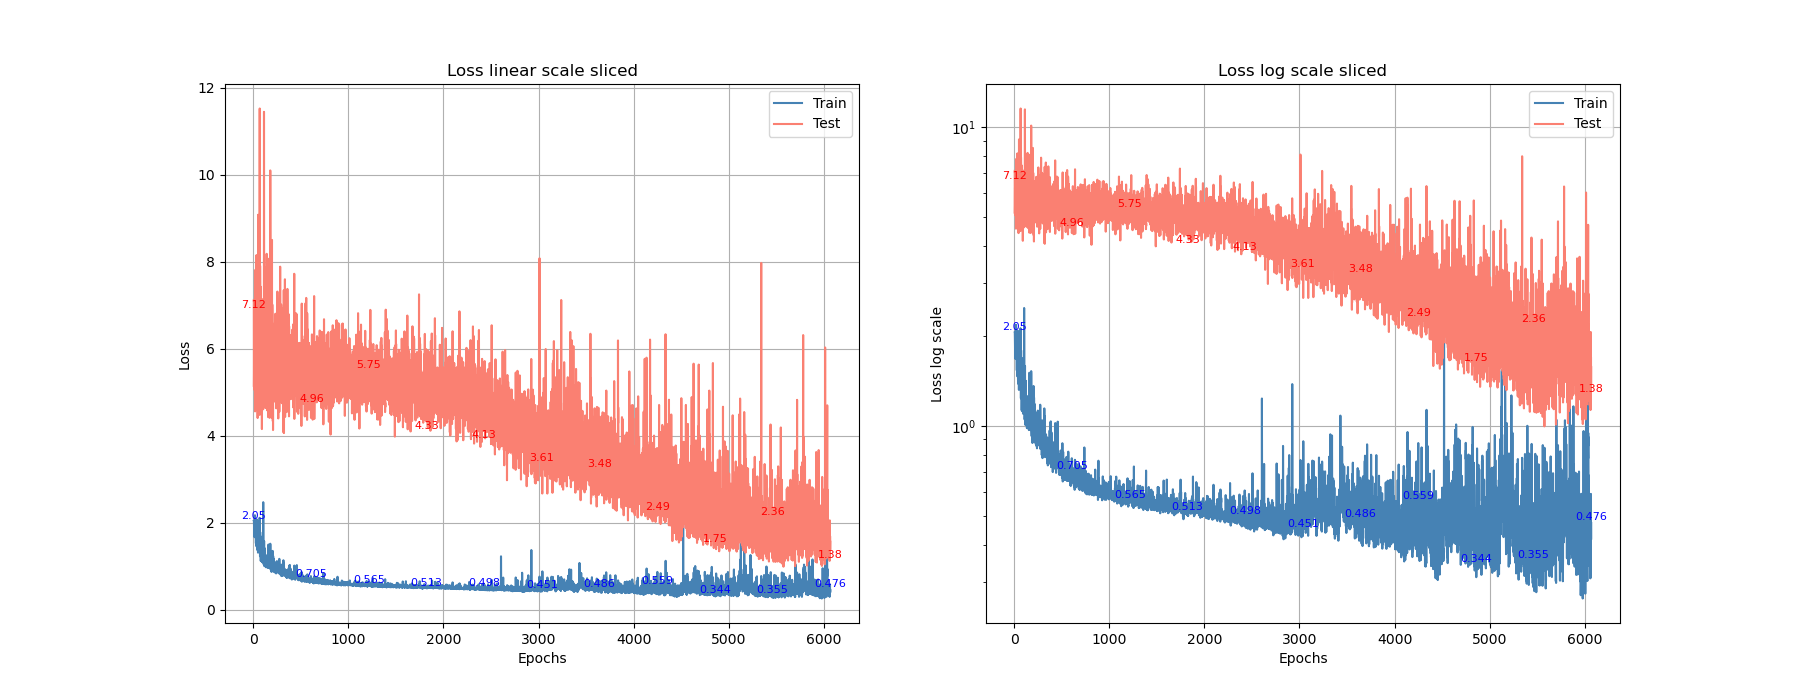
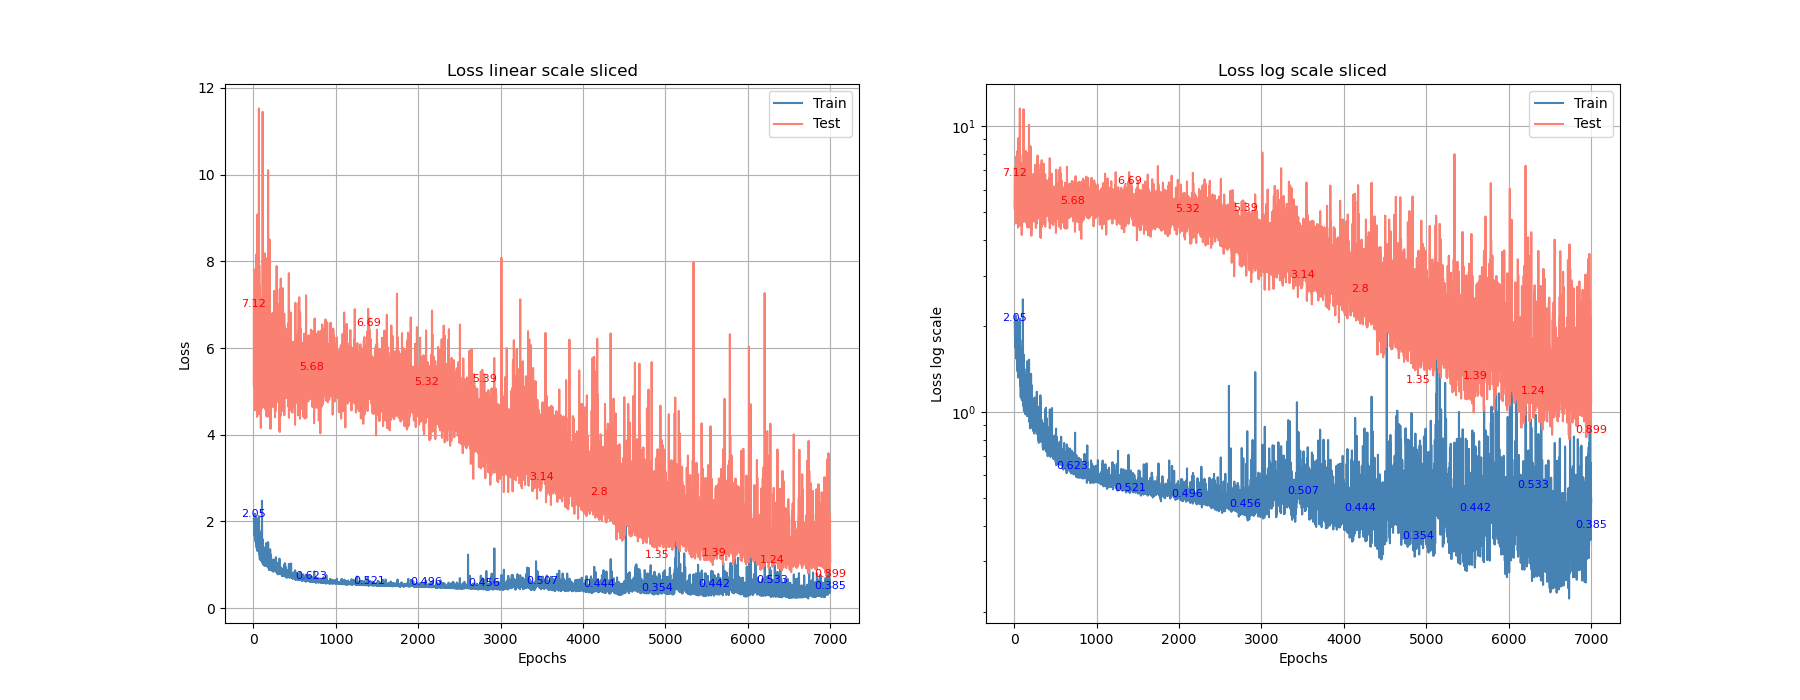
.

diff --git a/params.py b/params.py
@@ -11,7 +11,7 @@ FIRST_2_OF_3_TRAIN = False
 train_seqeunces_stereo = [0,2,3,5] #  10840 images 
 val_sequences_stereo =  [6,7,8]    #  3682 images
 test_sequences_stereo = [9]        #  1064 images
-SEQ_RATIOS = [0.0375]      # 3251, 2166, 1082, 540, 405, 269
+SEQ_RATIOS = [0.2, 0.1]      # 3251, 2166, 1082, 540, 405, 269
 CROP = 224
 RESIZE = 256
 USE_REALESTATE = False
@@ -21,7 +21,7 @@ JUMP_FRAMES = 6 if USE_REALESTATE else 2
 AUGMENTATION = True
 RANDOM_CROP = True
 INIT_DATA = True
-PART = ["head"]                                                  
+PART = ["mid"]                                                  
 
 ### Training ###
 LR = [1e-4]                                                             # TODO lr: 5e-4, 1e-4, 5e-5, 2e-5
@@ -69,7 +69,7 @@ AVG_EMBEDDINGS = False
 USE_CONV = True
 USE_CONV = False if DEEPF_NOCORRS else USE_CONV
 NUM_OUTPUT = 8 if USE_RECONSTRUCTION_LAYER else 9
-FROZEN_LAYERS = [0]
+FROZEN_LAYERS = [8]
 norm_mean = torch.tensor([0.48145466, 0.4578275, 0.40821073]).to(device) if MODEL == CLIP_MODEL_NAME else torch.tensor([0.5, 0.5, 0.5]).to(device)
 norm_std = torch.tensor([0.26862954, 0.26130258, 0.27577711]).to(device) if MODEL == CLIP_MODEL_NAME else torch.tensor([0.5, 0.5, 0.5]).to(device)
 

diff --git a/PlotFromText.py b/PlotFromText.py
@@ -110,7 +110,7 @@ def plot_parameter(x, y1, y2, title, plots_path=None, x_label="Epochs", save=Fal
 
 
 if __name__ == "__main__":
-    plots_path = "plots/Stereo/Winners/SED_0.5__L2_1__huber_1__auged__2lr_0.0001__conv__CLIP__use_reconstruction_True__BS_8__ratio_0.0375__head__frozen_0"
+    plots_path = "plots/Stereo/Winners/SED_0.5__L2_1__huber_1__auged__2lr_0.0001__conv__CLIP__use_reconstruction_True__BS_8__ratio_0.0375__tail__frozen_0"
     file_path = os.path.join(plots_path, "output.log")
     save = True
 
